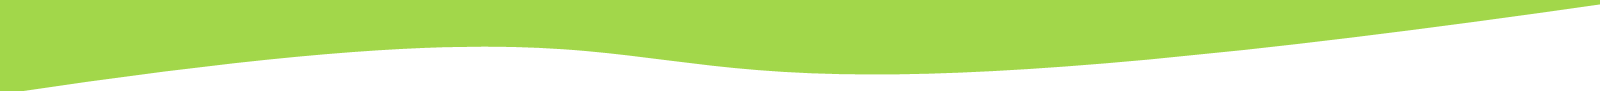
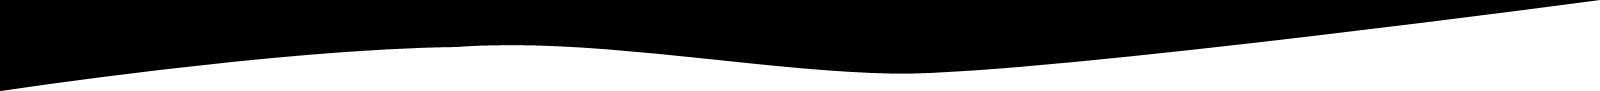
Request Front Done | Maui

diff --git a/src/components/RequestForm.vue b/src/components/RequestForm.vue
@@ -15,6 +15,7 @@
                 <input type='text' id='inForm' name='itemDesc' placeholder='Item Description'><br>
                 <input type='text' id='inForm' name='Quantity' placeholder='Quantity'><br>
                 <input type='text' id='inForm' name='location' placeholder='Your Location'><br>
+                <h3>Post Request</h3>
             </div>
         </div>
         <img id="wave" alt="wave" src="../assets/wave.png">
@@ -51,25 +52,52 @@ export default {
         height:400px;
         display:flex;
         margin-top:40px;
+
         padding-top:20px;
-        background-color: #a8d44c;
+        background-color: #4dd964;
         #mapBox{
-            margin: auto;
+            margin:auto;
         }
         #formBox{
-            width:25%;
-            height:300px;
-            top:70px;
-            right:20%;
+            margin-right:35%;
             #inForm{
+                width:300%;
+                height:30px;
+                border-radius: 5px;
+                border-color: transparent;
                 padding:5%;
                 min-width: 100px;
                 max-width: 100vw;
+                margin: 5%;
+            }
+            h3{
+                text-align: center;
+                width:100%;
+                height:20px;
+                font-family: Arial;
+                font-style: normal;
+                font-weight: 500;
+                font-size: calc(5px + 1vw);
+                color: white;
+                margin-top: 5px;
+                border-radius: 20px;
+                margin-left:190%;
+                padding:calc(1px + 1vw);
+                border-color:white;
+                border-style: solid;
+                border-width: thin;       
+                &:hover {
+                    transition: 0.3s ease-in-out;
+                    background: white;
+                    //background: #4dd964;
+                    color:#4dd964;
+                }   
             }
         }
     }
     img{
         width:100%;
+        filter: invert(81%) sepia(15%) saturate(1953%) hue-rotate(70deg) brightness(93%) contrast(82%);
     }
 }
 </style>
